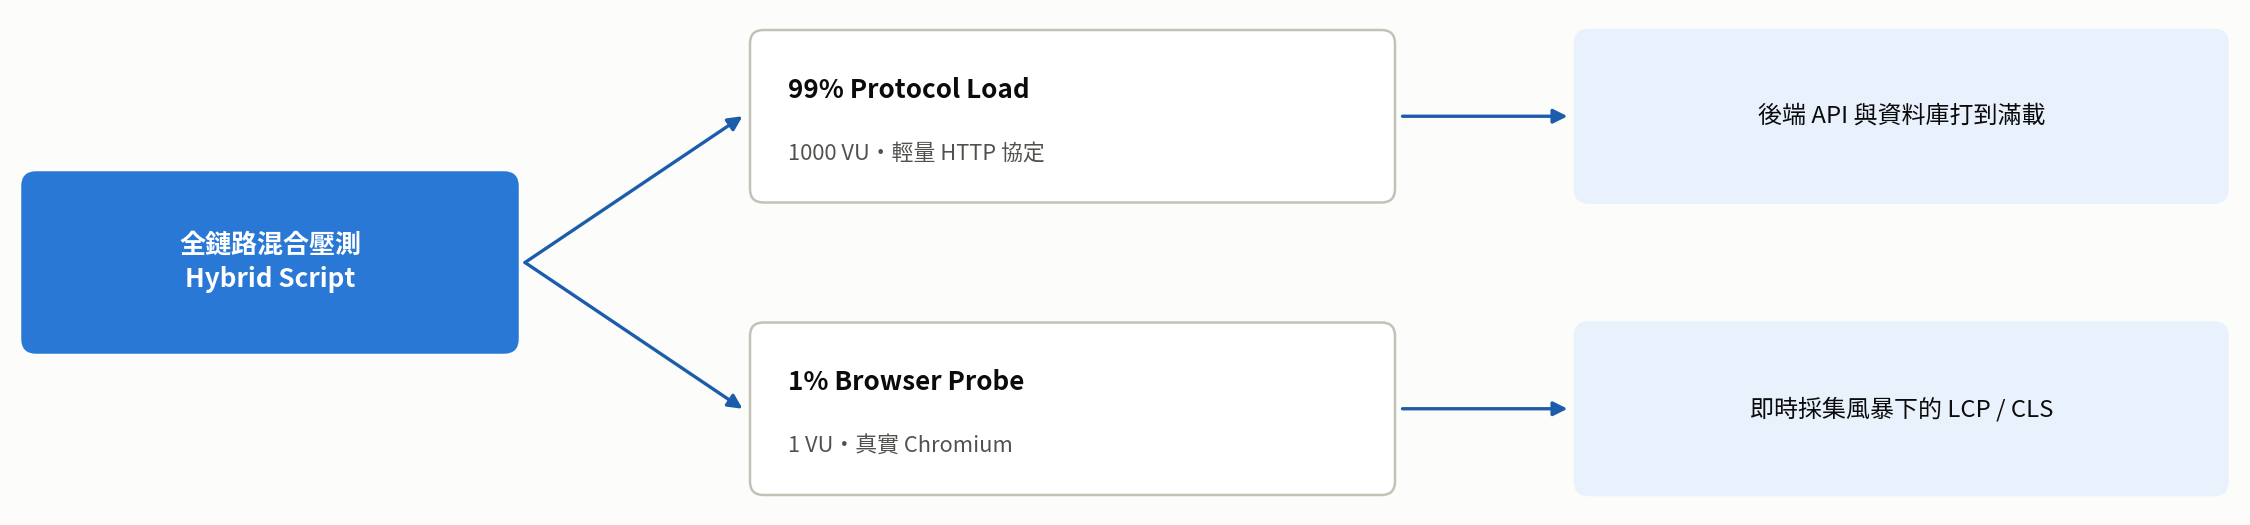
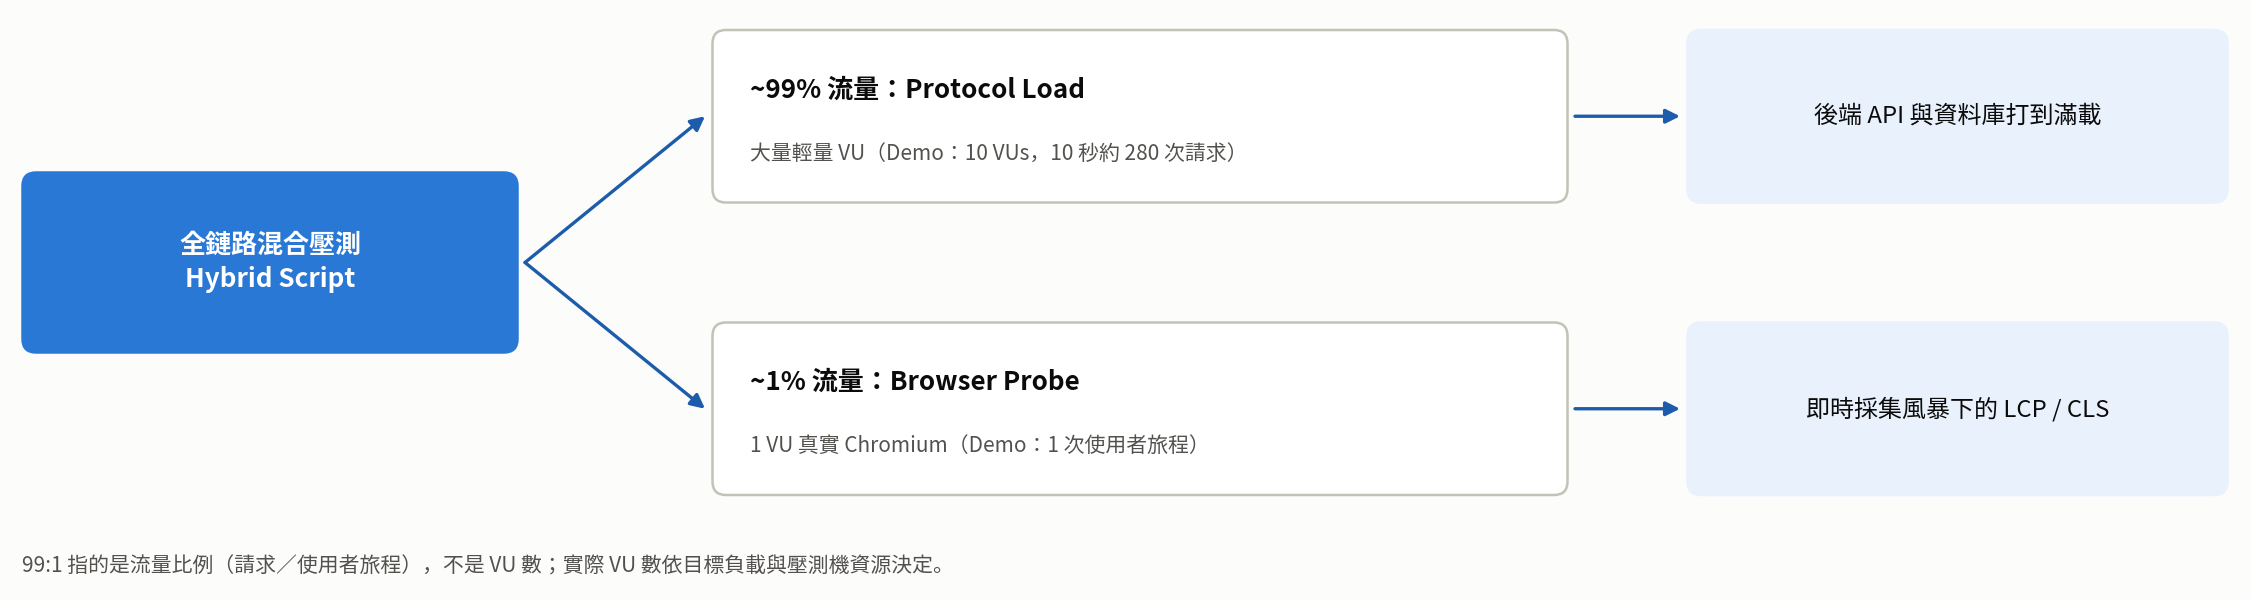
docs(k6): define 99:1 hybrid ratio as traffic share, not VU count
The architecture diagram said "1000 VU vs 1 VU", which is not 99:1 and
did not match the demo (10 protocol VUs vs 1 browser VU). Every script
and narration already describes 99% / 1% of traffic, and the demo's
140 protocol iterations (280 requests) vs 1 browser journey is ~99:1.
Relabel the diagram by traffic share with the demo's real numbers and
add a codelab note on sizing protocol VUs from the target load.

diff --git a/scripts/generate_codelab_diagrams.py b/scripts/generate_codelab_diagrams.py
@@ -350,22 +350,24 @@ def exit_code():
 # 10. 99:1 hybrid architecture
 # ---------------------------------------------------------------------------
 def hybrid():
-    W, H = 30, 7.0
+    W, H = 30, 8.0
     fig, ax = canvas(W, H)
-    box(ax, 0.3, 2.3, 6.6, 2.4, fc=BLUE, ec=BLUE)
-    label(ax, 3.6, 3.5, "全鏈路混合壓測\nHybrid Script", size=12.5, color="#ffffff", bold=True)
+    box(ax, 0.3, 3.3, 6.6, 2.4, fc=BLUE, ec=BLUE)
+    label(ax, 3.6, 4.5, "全鏈路混合壓測\nHybrid Script", size=12.5, color="#ffffff", bold=True)
     rows = [
-        (4.3, "99% Protocol Load", "1000 VU・輕量 HTTP 協定", "後端 API 與資料庫打到滿載"),
-        (0.4, "1% Browser Probe", "1 VU・真實 Chromium", "即時採集風暴下的 LCP / CLS"),
+        (5.3, "~99% 流量：Protocol Load", "大量輕量 VU（Demo：10 VUs，10 秒約 280 次請求）", "後端 API 與資料庫打到滿載"),
+        (1.4, "~1% 流量：Browser Probe", "1 VU 真實 Chromium（Demo：1 次使用者旅程）", "即時採集風暴下的 LCP / CLS"),
     ]
+    label(ax, 0.3, 0.45, "99:1 指的是流量比例（請求／使用者旅程），不是 VU 數；實際 VU 數依目標負載與壓測機資源決定。",
+          size=10, color=INK_2, ha="left")
     for y, head, sub, target in rows:
-        arrow(ax, (7.0, 3.5), (9.9, y + 1.15), color=BLUE_DARK)
-        box(ax, 10.0, y, 8.6, 2.3)
-        label(ax, 10.5, y + 1.5, head, size=12.5, bold=True, ha="left")
-        label(ax, 10.5, y + 0.65, sub, size=10.5, color=INK_2, ha="left")
-        arrow(ax, (18.7, y + 1.15), (20.9, y + 1.15), color=BLUE_DARK)
-        box(ax, 21.0, y, 8.7, 2.3, fc=BLUE_TINT, ec=BLUE_TINT)
-        label(ax, 25.35, y + 1.15, target, size=11.5, color=INK)
+        arrow(ax, (7.0, 4.5), (9.4, y + 1.15), color=BLUE_DARK)
+        box(ax, 9.5, y, 11.4, 2.3)
+        label(ax, 10.0, y + 1.5, head, size=12.5, bold=True, ha="left")
+        label(ax, 10.0, y + 0.65, sub, size=10, color=INK_2, ha="left")
+        arrow(ax, (21.0, y + 1.15), (22.4, y + 1.15), color=BLUE_DARK)
+        box(ax, 22.5, y, 7.2, 2.3, fc=BLUE_TINT, ec=BLUE_TINT)
+        label(ax, 26.1, y + 1.15, target, size=11.5, color=INK)
     save(fig, "hybrid-99-1")
 
 

diff --git a/codelabs/tutorials/k6-performance-testing.md b/codelabs/tutorials/k6-performance-testing.md
@@ -1634,7 +1634,10 @@ k6 run k6/demos/ch4_browser_quickpizza.js
 - **99% Protocol Load (協定負載)**：使用輕量 VU 模擬巨量流量（例如 10,000 RPS），將後端 API、資料庫連線池與微服務網關打至滿載極限。
 - **1% Browser Probe (瀏覽器探針)**：在系統遭受協定負載狂轟濫炸時，派出一隻真實 Chromium 探針模擬真實用戶進入首頁與結帳，測量極限壓力下的真實前端 **LCP/INP** 是否惡化！
 
-![99:1 混合壓測架構：Hybrid Script 同時發出 99% Protocol Load（1000 VU，把後端打到滿載）與 1% Browser Probe（1 VU Chromium，採集風暴下的 LCP/CLS）](assets/images/k6-diagram-hybrid-99-1.png)
+![99:1 混合壓測架構：Hybrid Script 把約 99% 的流量交給輕量 Protocol VU 把後端打到滿載，約 1% 的流量交給 1 個 Chromium 探針採集風暴下的 LCP/CLS](assets/images/k6-diagram-hybrid-99-1.png)
+
+Negative
+: **99:1 指的是流量比例，不是 VU 數**。本章 Demo 用 10 個 protocol VU 在 10 秒內打出約 280 次 API 請求，而瀏覽器探針只跑 1 次完整的使用者旅程——以流量計算大約就是 99:1。實際要配置多少 protocol VU，取決於你的目標負載（可用 Chapter 2 的利特爾法則推算）與壓測機資源；Demo 打的是公開共用的 QuickPizza，所以刻意維持小規模。
 
 #### 混合壓測多情境腳本架構
 
